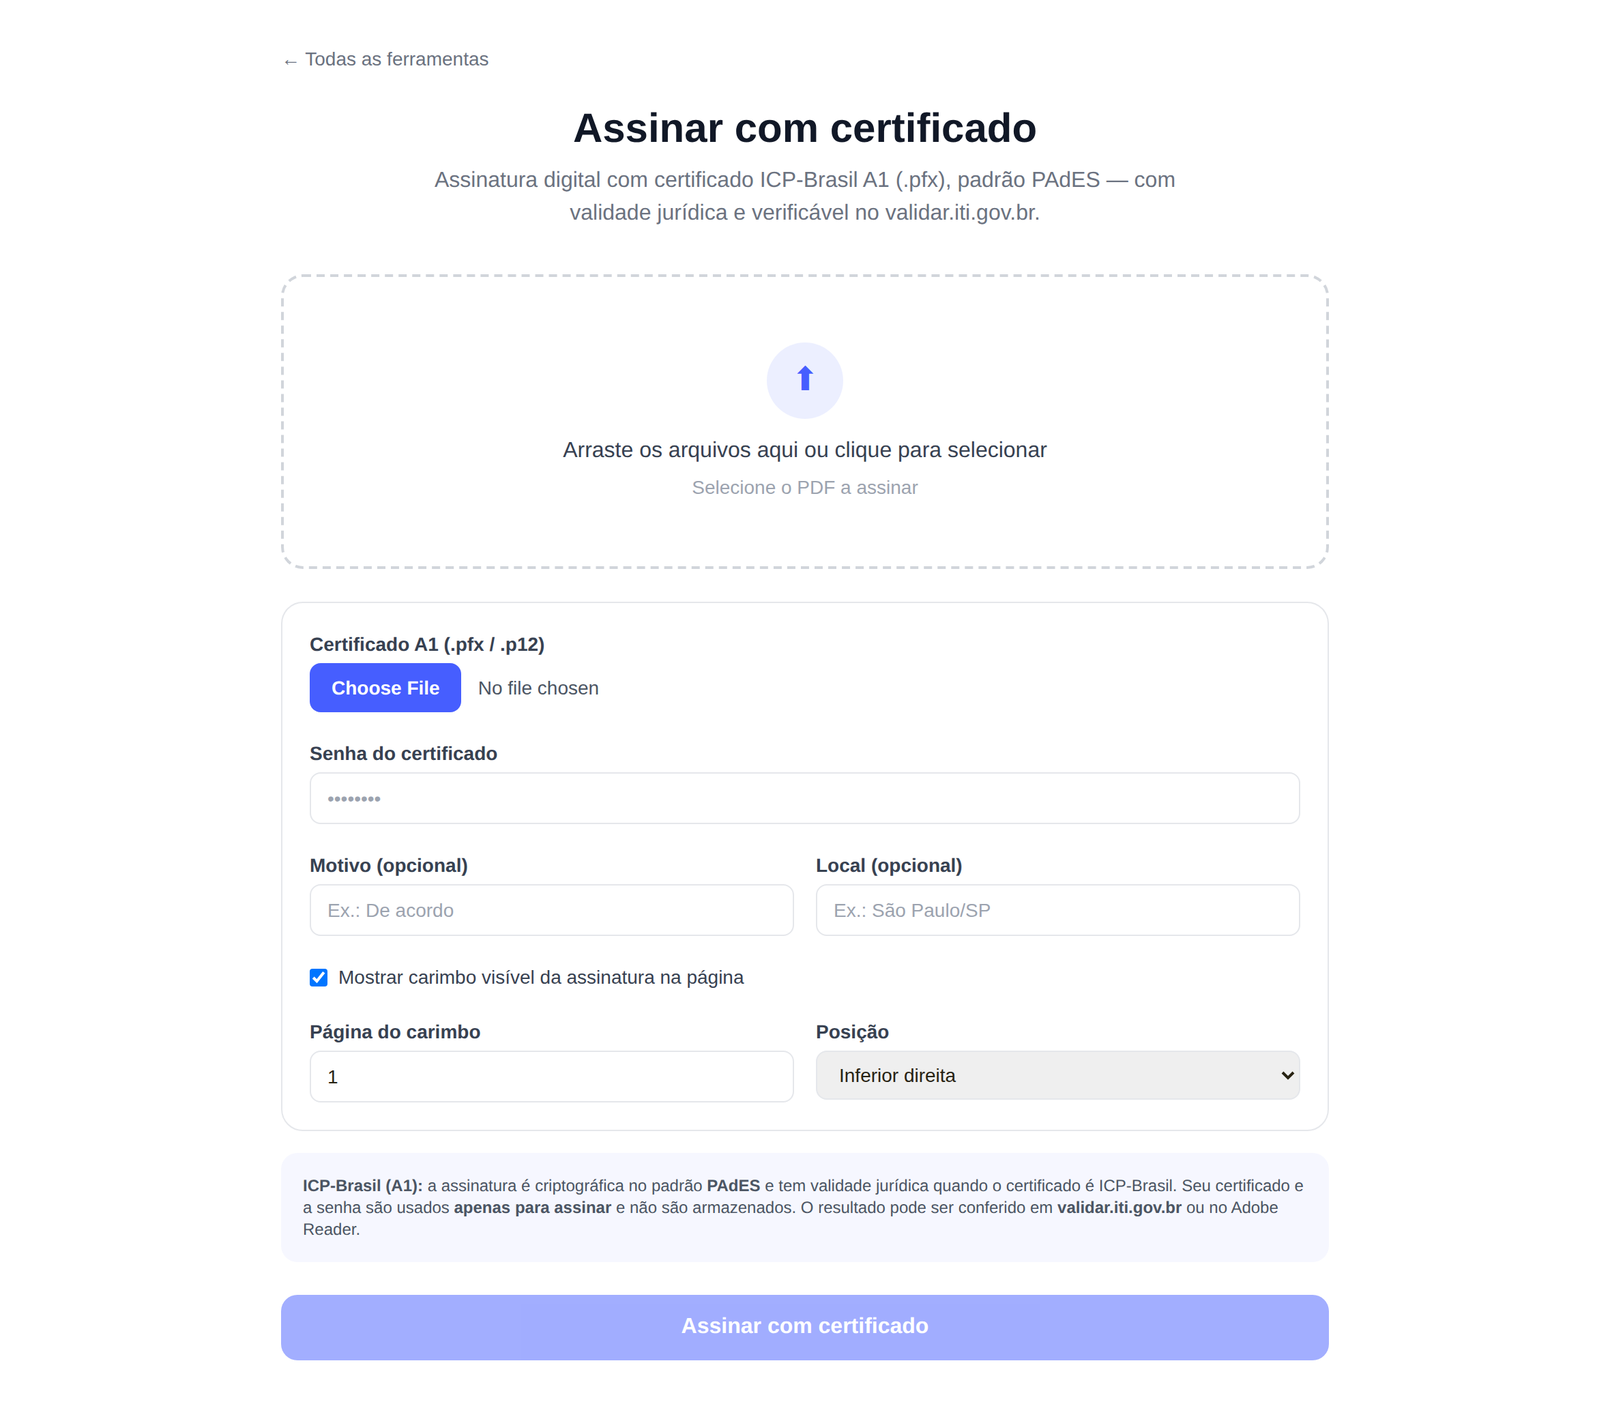
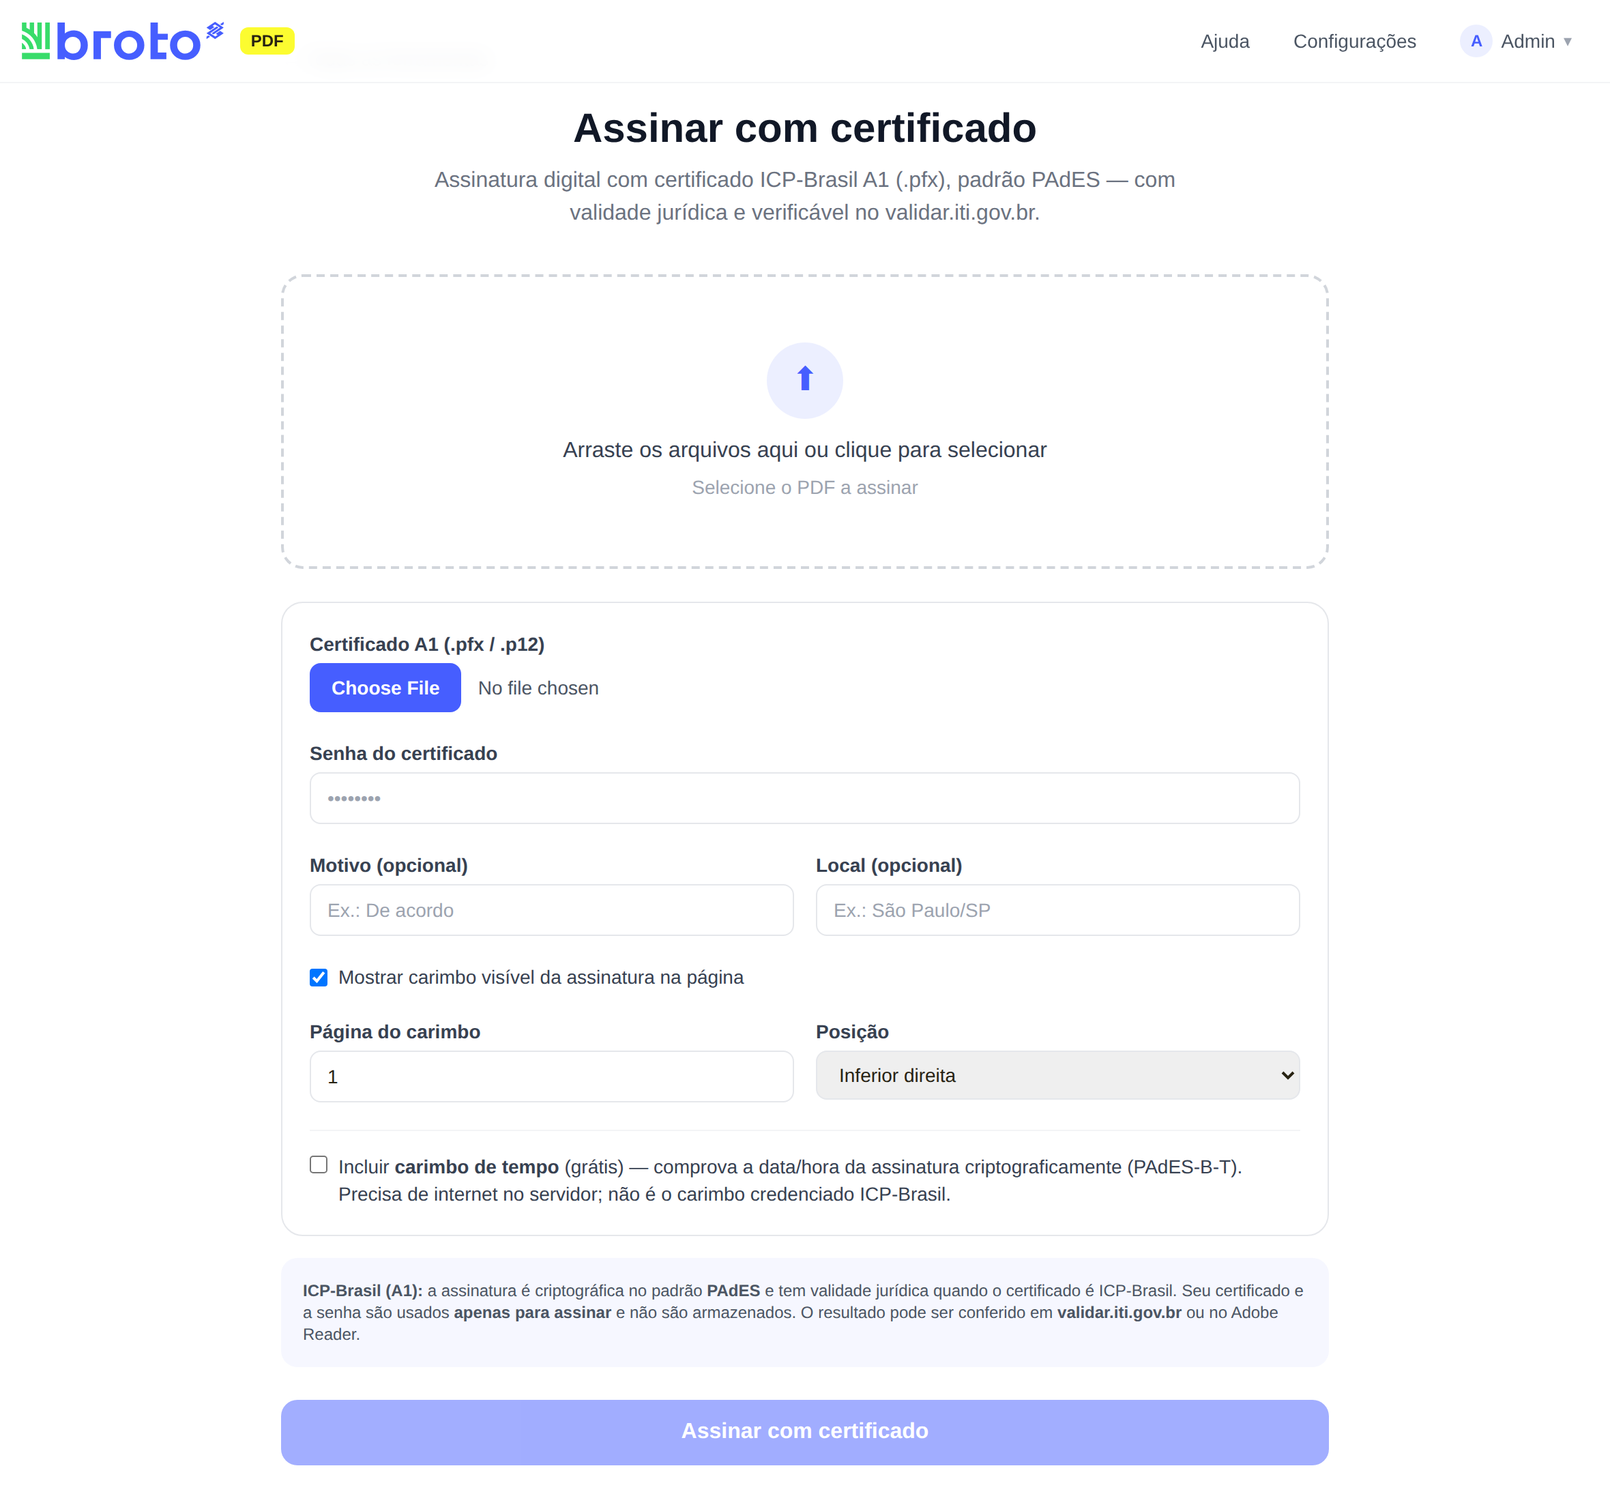
Aba Jurídico no admin: endereço do carimbo de tempo (TSA/ACT) editável (#42)
Nova aba "Jurídico" nas Configurações, separando o que é validade legal
do que é proteção de acesso (Segurança):

- Assinatura digital: campo do endereço do carimbo de tempo (TSA), já
  preenchido com o TSA gratuito. Ao contratar uma ACT credenciada
  ICP-Brasil (AD-RT), basta colar o endereço dela — vira carimbo oficial
  sem mexer no código. URL inválida volta ao padrão gratuito.
- "Usar carimbo de tempo por padrão": deixa a caixinha já marcada na
  ferramenta Assinar com certificado (a página lê /api/sign-policy).
- Política de Privacidade movida de Configurações para cá (é documento
  jurídico).

- src/lib/auth/sign-policy.ts (settings key sign_policy).
- /api/admin/sign-policy (GET/PUT, admin) e /api/sign-policy (GET logado,
  expõe só o padrão do carimbo).
- pdf-sign.ts passa a ler a URL do TSA da política (env TSA_URL de fallback).
- Ajuda/manual atualizada com a aba Jurídico e a ferramenta.

Verificado local: GET/PUT persistem, público reflete o padrão, URL
inválida cai no gratuito, e a ferramenta pré-marca conforme o padrão.
Sem mudança no Dockerfile (deploy rápido).

Claude-Session: https://claude.ai/code/session_01UvEEEE15c5PbS9NZ2micmm

diff --git a/src/app/admin/page.tsx b/src/app/admin/page.tsx
@@ -36,7 +36,7 @@ const input = "rounded-lg border border-gray-200 px-3 py-2 text-sm outline-none 
 const LOG_PAGE_SIZE = 20;
 
 export default function AdminPage() {
-  const [tab, setTab] = useState<"config" | "security" | "logs" | "activity">("config");
+  const [tab, setTab] = useState<"config" | "security" | "juridico" | "logs" | "activity">("config");
   const [users, setUsers] = useState<Profile[]>([]);
   const [audit, setAudit] = useState<Audit[]>([]);
   const [activity, setActivity] = useState<Audit[]>([]);
@@ -73,8 +73,12 @@ export default function AdminPage() {
   const [security, setSecurity] = useState<SecurityPolicy | null>(null);
   const [securityMsg, setSecurityMsg] = useState("");
 
+  // política jurídica / assinatura digital (carimbo de tempo)
+  const [sign, setSign] = useState<{ tsaUrl: string; timestampDefault: boolean } | null>(null);
+  const [signMsg, setSignMsg] = useState("");
+
   const load = useCallback(async () => {
-    const [u, a, p, act, pv, sp, se] = await Promise.all([
+    const [u, a, p, act, pv, sp, se, sg] = await Promise.all([
       fetch("/api/admin/users").then((r) => r.json()),
       fetch("/api/admin/audit").then((r) => r.json()),
       fetch("/api/admin/policy").then((r) => r.json()),
@@ -82,6 +86,7 @@ export default function AdminPage() {
       fetch("/api/admin/privacy").then((r) => r.json()),
       fetch("/api/admin/session-policy").then((r) => r.json()),
       fetch("/api/admin/security-policy").then((r) => r.json()),
+      fetch("/api/admin/sign-policy").then((r) => r.json()),
     ]);
     setUsers(u.users || []);
     setAudit(a.entries || []);
@@ -90,6 +95,7 @@ export default function AdminPage() {
     if (pv.privacy) setPrivacy(pv.privacy);
     if (sp.policy) setSessionPol(sp.policy);
     if (se.policy) setSecurity(se.policy);
+    if (sg.policy) setSign(sg.policy);
   }, []);
 
   useEffect(() => { load(); }, [load]);
@@ -197,6 +203,21 @@ export default function AdminPage() {
     setPrivacyMsg("Política de privacidade salva ✓");
   }
 
+  async function saveSign(e: React.FormEvent) {
+    e.preventDefault();
+    if (!sign) return;
+    setSignMsg("");
+    const r = await fetch("/api/admin/sign-policy", {
+      method: "PUT",
+      headers: { "content-type": "application/json" },
+      body: JSON.stringify(sign),
+    });
+    const d = await r.json();
+    if (!r.ok) { setSignMsg(d.error || "Falha ao salvar."); return; }
+    setSign(d.policy);
+    setSignMsg("Assinatura digital salva ✓");
+  }
+
   const genPassword = () => {
     const chars = "ABCDEFGHJKLMNPQRSTUVWXYZabcdefghijkmnpqrstuvwxyz23456789!@#$";
     let s = "";
@@ -258,7 +279,7 @@ export default function AdminPage() {
   const page = Math.min(logPage, totalPages - 1);
   const pageItems = filtered.slice(page * LOG_PAGE_SIZE, page * LOG_PAGE_SIZE + LOG_PAGE_SIZE);
 
-  const tabBtn = (key: "config" | "security" | "logs" | "activity", label: string, count?: number) => (
+  const tabBtn = (key: "config" | "security" | "juridico" | "logs" | "activity", label: string, count?: number) => (
     <button
       onClick={() => setTab(key)}
       className={`rounded-lg px-4 py-2 text-sm font-semibold transition ${tab === key ? "bg-white text-brand shadow-sm" : "text-gray-500 hover:text-gray-700"}`}
@@ -279,6 +300,7 @@ export default function AdminPage() {
       <div className="inline-flex w-fit gap-1 rounded-xl bg-gray-100 p-1">
         {tabBtn("config", "Configurações", pend)}
         {tabBtn("security", "Segurança")}
+        {tabBtn("juridico", "Jurídico")}
         {tabBtn("logs", "Logs")}
         {tabBtn("activity", "Atividade")}
       </div>
@@ -406,48 +428,6 @@ export default function AdminPage() {
             </form>
           )}
 
-          {/* política de privacidade (texto editável) */}
-          {privacy && (
-            <form onSubmit={savePrivacy} className="rounded-2xl border border-gray-100 bg-white p-5">
-              <h2 className="mb-1 text-sm font-bold uppercase tracking-wide text-gray-400">Política de privacidade</h2>
-              <p className="mb-4 text-sm text-gray-500">
-                Este texto aparece no cadastro (ao aceitar) e na página pública <b>/privacidade</b>.
-              </p>
-              <div className="mb-3 flex flex-wrap gap-3">
-                <label className="text-sm">
-                  <span className="mb-1 block font-medium text-gray-700">Versão</span>
-                  <input className={`${input} w-28`} value={privacy.version}
-                    onChange={(e) => setPrivacy({ ...privacy, version: e.target.value })} />
-                </label>
-                <label className="text-sm">
-                  <span className="mb-1 block font-medium text-gray-700">Data</span>
-                  <input className={`${input} w-40`} value={privacy.date}
-                    onChange={(e) => setPrivacy({ ...privacy, date: e.target.value })} />
-                </label>
-              </div>
-              <label className="block text-sm">
-                <span className="mb-1 block font-medium text-gray-700">Texto</span>
-                <textarea
-                  className={`${input} h-72 w-full font-mono text-xs leading-relaxed`}
-                  value={privacy.content}
-                  onChange={(e) => setPrivacy({ ...privacy, content: e.target.value })}
-                />
-              </label>
-              <p className="mt-1 text-xs text-gray-400">
-                Formatação simples: <code>## Título</code> vira subtítulo, <code>- item</code> vira lista,
-                e uma linha em branco separa parágrafos.
-              </p>
-              <div className="mt-3 flex items-center gap-3">
-                <button className="rounded-lg bg-brand px-4 py-2 text-sm font-semibold text-white transition hover:opacity-90">Salvar texto</button>
-                <a href="/privacidade" target="_blank" className="text-sm text-brand underline hover:opacity-80">Pré-visualizar</a>
-                {privacyMsg && <span className={`text-sm ${privacyMsg.includes("✓") ? "text-green-600" : "text-red-600"}`}>{privacyMsg}</span>}
-              </div>
-              <p className="mt-2 text-xs text-gray-400">
-                Dica: ao mudar o texto de forma relevante, aumente a <b>versão</b> — cada aceite fica
-                registrado no log com a versão vigente.
-              </p>
-            </form>
-          )}
         </div>
       )}
 
@@ -547,6 +527,86 @@ export default function AdminPage() {
                 <button className="rounded-lg bg-brand px-4 py-2 text-sm font-semibold text-white transition hover:opacity-90">Salvar</button>
                 {sessionMsg && <span className={`text-sm ${sessionMsg.includes("✓") ? "text-green-600" : "text-red-600"}`}>{sessionMsg}</span>}
               </div>
+            </form>
+          )}
+        </div>
+      )}
+
+      {tab === "juridico" && (
+        <div className="flex flex-col gap-8">
+          {/* assinatura digital / carimbo de tempo */}
+          {sign && (
+            <form onSubmit={saveSign} className="rounded-2xl border border-gray-100 bg-white p-5">
+              <h2 className="mb-1 text-sm font-bold uppercase tracking-wide text-gray-400">Assinatura digital (carimbo de tempo)</h2>
+              <p className="mb-4 text-sm text-gray-500">
+                Usado pela ferramenta <b>Assinar com certificado</b> (ICP-Brasil A1). O <b>carimbo de tempo</b>{" "}
+                comprova a data/hora da assinatura de forma criptográfica.
+              </p>
+              <label className="block text-sm">
+                <span className="mb-1 block font-medium text-gray-700">Endereço do servidor de carimbo de tempo (TSA)</span>
+                <input
+                  className={`${input} w-full`}
+                  value={sign.tsaUrl}
+                  onChange={(e) => setSign({ ...sign, tsaUrl: e.target.value })}
+                  placeholder="http://timestamp.digicert.com"
+                />
+              </label>
+              <p className="mt-1 text-xs text-gray-400">
+                Já vem com um TSA <b>gratuito</b> (comprova a hora, mas não é credenciado ICP-Brasil). Quando
+                contratar uma <b>ACT credenciada</b> (para carimbo oficial AD-RT), cole aqui o endereço dela.
+                Deixe vazio para voltar ao padrão gratuito.
+              </p>
+              <label className="mt-4 flex items-center gap-2 text-sm text-gray-700">
+                <input type="checkbox" checked={sign.timestampDefault} onChange={(e) => setSign({ ...sign, timestampDefault: e.target.checked })} />
+                Já deixar a opção de carimbo de tempo <b>marcada por padrão</b> na ferramenta
+              </label>
+              <div className="mt-4 flex items-center gap-3">
+                <button className="rounded-lg bg-brand px-4 py-2 text-sm font-semibold text-white transition hover:opacity-90">Salvar</button>
+                {signMsg && <span className={`text-sm ${signMsg.includes("✓") ? "text-green-600" : "text-red-600"}`}>{signMsg}</span>}
+              </div>
+            </form>
+          )}
+
+          {/* política de privacidade (texto editável) */}
+          {privacy && (
+            <form onSubmit={savePrivacy} className="rounded-2xl border border-gray-100 bg-white p-5">
+              <h2 className="mb-1 text-sm font-bold uppercase tracking-wide text-gray-400">Política de privacidade</h2>
+              <p className="mb-4 text-sm text-gray-500">
+                Este texto aparece no cadastro (ao aceitar) e na página pública <b>/privacidade</b>.
+              </p>
+              <div className="mb-3 flex flex-wrap gap-3">
+                <label className="text-sm">
+                  <span className="mb-1 block font-medium text-gray-700">Versão</span>
+                  <input className={`${input} w-28`} value={privacy.version}
+                    onChange={(e) => setPrivacy({ ...privacy, version: e.target.value })} />
+                </label>
+                <label className="text-sm">
+                  <span className="mb-1 block font-medium text-gray-700">Data</span>
+                  <input className={`${input} w-40`} value={privacy.date}
+                    onChange={(e) => setPrivacy({ ...privacy, date: e.target.value })} />
+                </label>
+              </div>
+              <label className="block text-sm">
+                <span className="mb-1 block font-medium text-gray-700">Texto</span>
+                <textarea
+                  className={`${input} h-72 w-full font-mono text-xs leading-relaxed`}
+                  value={privacy.content}
+                  onChange={(e) => setPrivacy({ ...privacy, content: e.target.value })}
+                />
+              </label>
+              <p className="mt-1 text-xs text-gray-400">
+                Formatação simples: <code>## Título</code> vira subtítulo, <code>- item</code> vira lista,
+                e uma linha em branco separa parágrafos.
+              </p>
+              <div className="mt-3 flex items-center gap-3">
+                <button className="rounded-lg bg-brand px-4 py-2 text-sm font-semibold text-white transition hover:opacity-90">Salvar texto</button>
+                <a href="/privacidade" target="_blank" className="text-sm text-brand underline hover:opacity-80">Pré-visualizar</a>
+                {privacyMsg && <span className={`text-sm ${privacyMsg.includes("✓") ? "text-green-600" : "text-red-600"}`}>{privacyMsg}</span>}
+              </div>
+              <p className="mt-2 text-xs text-gray-400">
+                Dica: ao mudar o texto de forma relevante, aumente a <b>versão</b> — cada aceite fica
+                registrado no log com a versão vigente.
+              </p>
             </form>
           )}
         </div>

diff --git a/src/lib/server/pdf-sign.ts b/src/lib/server/pdf-sign.ts
@@ -1,6 +1,7 @@
 import { join } from "node:path";
 import { writeFile, readFile } from "node:fs/promises";
 import { run, withWorkspace, ProcessingError } from "./exec";
+import { getSignPolicy, DEFAULT_TSA_URL } from "@/lib/auth/sign-policy";
 
 // Assinatura digital com certificado ICP-Brasil A1 (.pfx/.p12), padrão PAdES
 // (AD-RB básica) via pyHanko. A chave privada é usada apenas em memória/arquivo
@@ -73,10 +74,6 @@ with open(cfg["inpdf"], "rb") as inf, open(cfg["outpdf"], "wb") as outf:
 print("OK")
 `;
 
-// TSA público gratuito (RFC3161). Para AD-RT oficial ICP-Brasil, troque
-// por uma ACT credenciada via a env TSA_URL.
-const DEFAULT_TSA_URL = "http://timestamp.digicert.com";
-
 export type SignOptions = {
   password: string;
   reason?: string;
@@ -96,6 +93,9 @@ export async function signPdfWithCert(pdf: Buffer, pfx: Buffer, opts: SignOption
     await writeFile(inPath, pdf);
     await writeFile(pfxPath, pfx);
     await writeFile(scriptPath, SCRIPT);
+    const tsaUrl = opts.timestamp
+      ? (await getSignPolicy()).tsaUrl || process.env.TSA_URL || DEFAULT_TSA_URL
+      : "";
     const cfg = {
       inpdf: inPath,
       outpdf: outPath,
@@ -106,7 +106,7 @@ export async function signPdfWithCert(pdf: Buffer, pfx: Buffer, opts: SignOption
       visible: opts.visible !== false,
       page: opts.page ?? 0,
       corner: opts.corner || "br",
-      tsa_url: opts.timestamp ? (process.env.TSA_URL || DEFAULT_TSA_URL) : "",
+      tsa_url: tsaUrl,
     };
     try {
       await run(PYTHON, [scriptPath, JSON.stringify(cfg)], {

diff --git a/src/lib/auth/sign-policy.ts b/src/lib/auth/sign-policy.ts
@@ -1,0 +1,33 @@
+import "server-only";
+
+import { getStore } from "./store";
+
+// Política jurídica / de assinatura digital (editável pelo admin):
+//  - tsaUrl: endereço do servidor de carimbo de tempo (RFC3161). O padrão é um
+//    TSA público gratuito; troque por uma ACT credenciada ICP-Brasil (AD-RT).
+//  - timestampDefault: se a opção "incluir carimbo de tempo" já vem marcada.
+export type SignPolicy = { tsaUrl: string; timestampDefault: boolean };
+
+export const DEFAULT_TSA_URL = "http://timestamp.digicert.com";
+export const DEFAULT_SIGN_POLICY: SignPolicy = { tsaUrl: DEFAULT_TSA_URL, timestampDefault: false };
+
+const KEY = "sign_policy";
+
+export async function getSignPolicy(): Promise<SignPolicy> {
+  await getStore().init();
+  const saved = await getStore().getSetting<Partial<SignPolicy>>(KEY);
+  return { ...DEFAULT_SIGN_POLICY, ...(saved || {}) };
+}
+
+export async function saveSignPolicy(input: Partial<SignPolicy>): Promise<SignPolicy> {
+  await getStore().init();
+  let tsaUrl = String(input.tsaUrl ?? "").trim();
+  // Aceita apenas http(s); vazio volta ao padrão gratuito.
+  if (!/^https?:\/\//i.test(tsaUrl)) tsaUrl = DEFAULT_TSA_URL;
+  const policy: SignPolicy = {
+    tsaUrl: tsaUrl.slice(0, 300),
+    timestampDefault: !!input.timestampDefault,
+  };
+  await getStore().setSetting(KEY, policy);
+  return policy;
+}

diff --git a/src/app/api/admin/sign-policy/route.ts b/src/app/api/admin/sign-policy/route.ts
@@ -1,0 +1,33 @@
+import { NextResponse } from "next/server";
+import { getSessionUser } from "@/lib/auth/current-user";
+import { getSignPolicy, saveSignPolicy } from "@/lib/auth/sign-policy";
+import { audit } from "@/lib/auth/users";
+
+export const runtime = "nodejs";
+
+async function requireAdmin() {
+  const u = await getSessionUser();
+  return u && u.role === "admin" ? u : null;
+}
+
+export async function GET() {
+  const admin = await requireAdmin();
+  if (!admin) return NextResponse.json({ error: "acesso restrito" }, { status: 403 });
+  return NextResponse.json({ policy: await getSignPolicy() });
+}
+
+export async function PUT(req: Request) {
+  const admin = await requireAdmin();
+  if (!admin) return NextResponse.json({ error: "acesso restrito" }, { status: 403 });
+  try {
+    const policy = await saveSignPolicy(await req.json());
+    await audit({
+      action: "atualizou a assinatura digital",
+      byName: admin.name,
+      detail: `carimbo ${policy.timestampDefault ? "padrão on" : "opcional"} · TSA ${policy.tsaUrl}`,
+    });
+    return NextResponse.json({ policy });
+  } catch (e) {
+    return NextResponse.json({ error: (e as Error).message }, { status: 400 });
+  }
+}

diff --git a/src/app/assinar-certificado/page.tsx b/src/app/assinar-certificado/page.tsx
@@ -1,6 +1,6 @@
 "use client";
 
-import { useRef, useState } from "react";
+import { useEffect, useRef, useState } from "react";
 import { getTool } from "@/lib/tools";
 import { ToolShell } from "@/components/ToolShell";
 import { FileDropzone } from "@/components/FileDropzone";
@@ -19,6 +19,14 @@ export default function Page() {
   const [corner, setCorner] = useState("br");
   const [timestamp, setTimestamp] = useState(false);
   const [busy, setBusy] = useState(false);
+
+  // Pré-marca o carimbo de tempo conforme o padrão definido pelo admin (Jurídico).
+  useEffect(() => {
+    fetch("/api/sign-policy")
+      .then((r) => (r.ok ? r.json() : null))
+      .then((d) => { if (d?.timestampDefault) setTimestamp(true); })
+      .catch(() => {});
+  }, []);
   const [error, setError] = useState<string | null>(null);
   const certRef = useRef<HTMLInputElement>(null);
 

diff --git a/src/app/ajuda/page.tsx b/src/app/ajuda/page.tsx
@@ -177,6 +177,14 @@ export default function AjudaPage() {
             </p>
             <Shot name="admin-atividade" alt="Aba Atividade" />
           </div>
+          <div className="rounded-2xl border border-gray-200 bg-white p-5 sm:p-6">
+            <h3 className="text-lg font-bold text-gray-900">Jurídico</h3>
+            <p className="mt-2 text-sm text-gray-600">
+              Configura a <b>assinatura digital</b> (endereço do carimbo de tempo / ACT credenciada) e concentra a
+              <b> Política de Privacidade</b>.
+            </p>
+            <Shot name="admin-juridico" alt="Aba Jurídico" />
+          </div>
         </div>
       </section>
 

diff --git a/src/app/api/sign-policy/route.ts b/src/app/api/sign-policy/route.ts
@@ -1,0 +1,14 @@
+import { NextResponse } from "next/server";
+import { getSessionUser } from "@/lib/auth/current-user";
+import { getSignPolicy } from "@/lib/auth/sign-policy";
+
+export const runtime = "nodejs";
+
+// Somente o padrão do carimbo de tempo é exposto ao usuário logado (para
+// pré-marcar a opção na ferramenta). A URL do TSA fica no servidor.
+export async function GET() {
+  const u = await getSessionUser();
+  if (!u) return NextResponse.json({ error: "acesso restrito" }, { status: 403 });
+  const p = await getSignPolicy();
+  return NextResponse.json({ timestampDefault: p.timestampDefault });
+}
